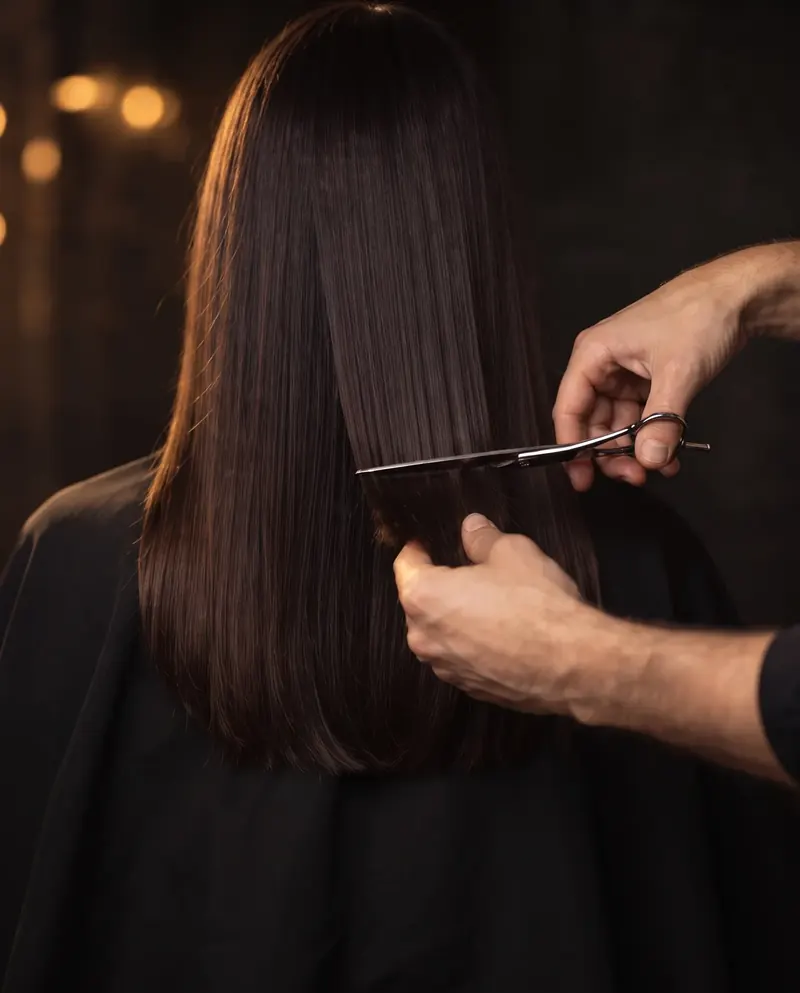
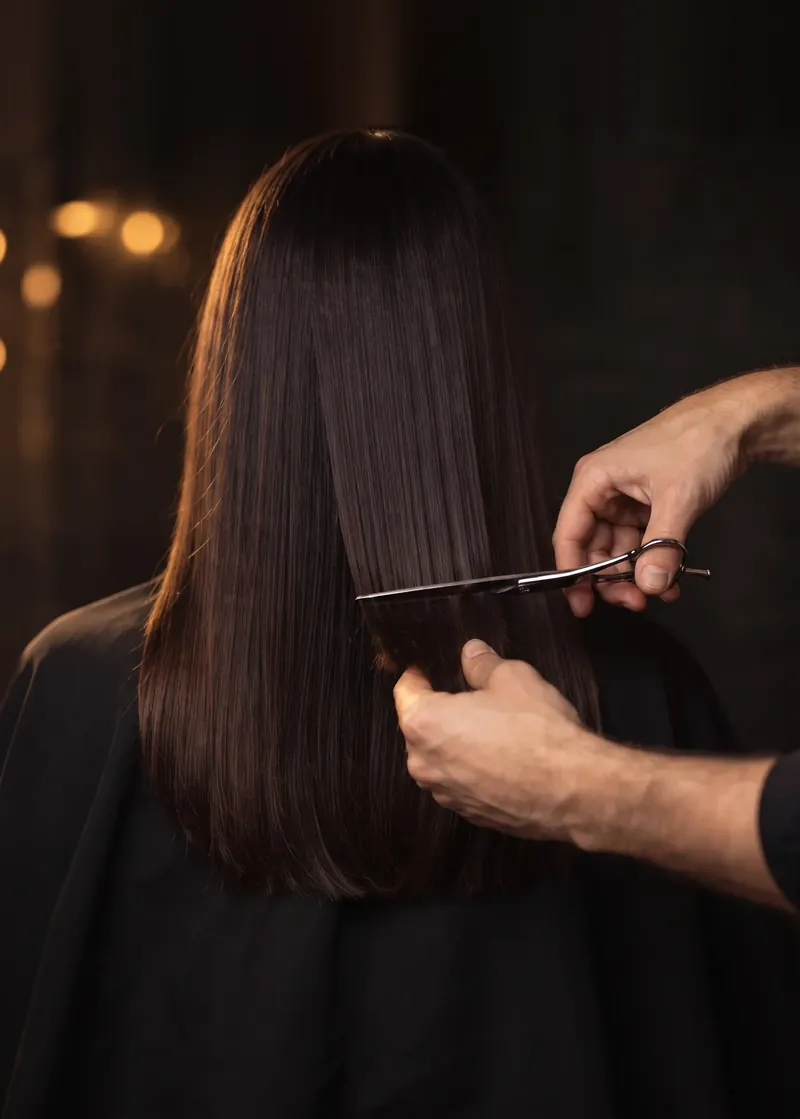
Frisør: luft over håret på klip-fotoet, farve-fotoet viser hele håret

diff --git a/app/frisoer/frisoer.css b/app/frisoer/frisoer.css
@@ -2886,3 +2886,8 @@ body:has(.fr) {
     grid-template-columns: 1fr;
   }
 }
+
+/* Prislisten: klip-fotoet har fået luft over håret og vises fra toppen, så luften kommer med (Emil 26. nov.) */
+.fr-pris-foto-klip > img {
+  object-position: 50% 0;
+}
